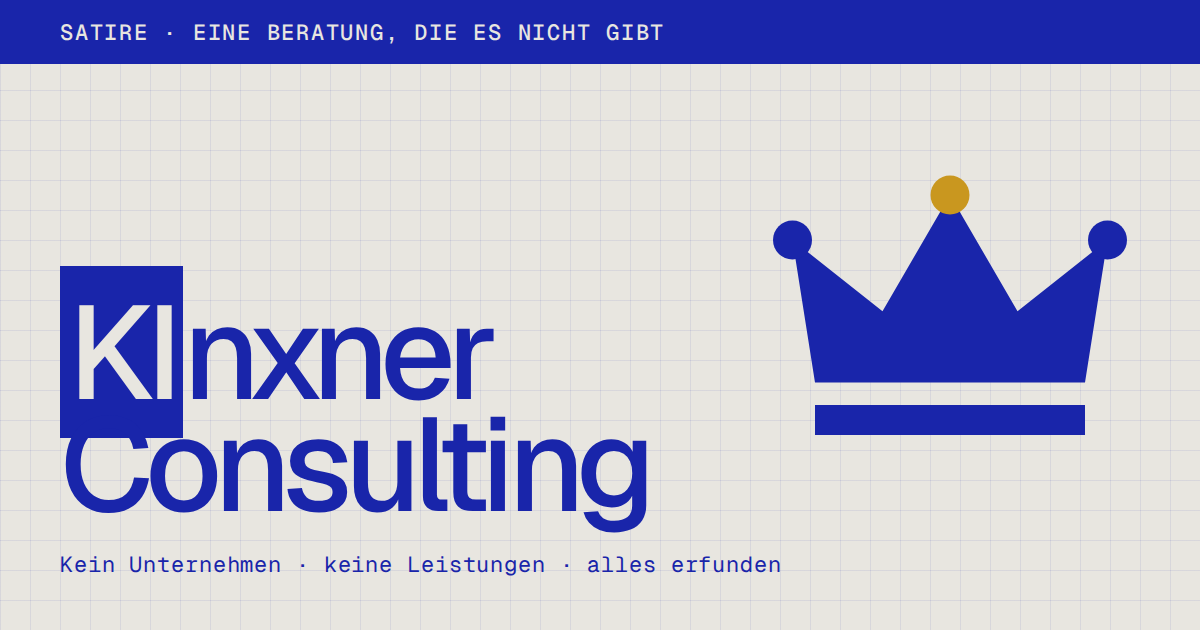
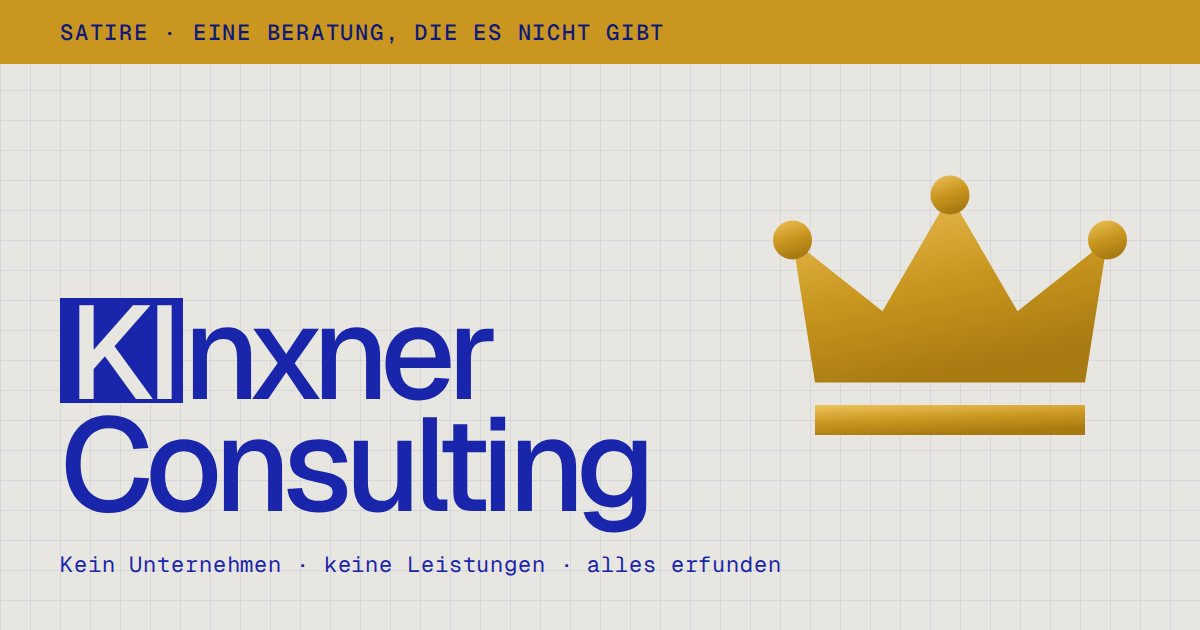
Gold zurück: Krone, Satire-Balken und Akzente wieder in Kronen-Gold
Nach Feedback bekommt KInxner sein Gold zurück, ohne das Duoton zu
verlieren. Die Krone ist überall wieder ganz golden (Metallverlauf),
die Blaupause im Hero wird nach dem Zeichnen vergoldet.

- Satire-Balken wieder gold, Text dunkelblau (5,5:1)
- Goldene Akzentlinie an jeder Sektion und über den Kennzahlen
- "Wörtlich." und die Kronen-Kennzahl in dunklem Gold (große Schrift, 3,5:1)
- Gold auf Blau: Manifest, Menü, Hover der Leistungen
- Hover-Zustände der Buttons werden vergoldet
- Folie 3: die Balken-Krone ist jetzt golden
- Footer: Krone sitzt auf dem KI
- Favicon: goldene Krone auf Blau; OG-Bild neu, KI-Kästchen korrigiert
- Manifest: goldene, korrekte deutsche Anführungszeichen
- Doku und README angepasst

Claude-Session: https://claude.ai/code/session_0131gEwVaujdm63ESBMfdYfs

diff --git a/assets/css/style.css b/assets/css/style.css
@@ -27,6 +27,8 @@
   --paper-2: #dfdcd4;
   --paper-3: #f1efea;
   --gold: #c9971f;
+  --gold-bright: #e8b84b; /* Gold auf Blau */
+  --gold-deep: #a07010;   /* Gold für große Schrift auf Papier (3,5:1) */
   --muted: color-mix(in srgb, var(--blue) 76%, var(--paper));
   --line: color-mix(in srgb, var(--blue) 24%, transparent);
   --line-soft: color-mix(in srgb, var(--blue) 9%, transparent);
@@ -146,10 +148,10 @@ p { margin: 0 0 1em; text-wrap: pretty; }
   -webkit-box-decoration-break: clone;
   box-decoration-break: clone;
 }
-.manifest .ki,
+.manifest .ki { background: var(--gold-bright); color: var(--blue-deep); }
 .menu .ki,
 .ticket .ki,
-.satire-bar .ki { background: var(--paper); color: var(--blue); }
+.satire-bar .ki { background: var(--blue-deep); color: var(--paper); }
 
 .skip-link {
   position: absolute;
@@ -171,6 +173,7 @@ p { margin: 0 0 1em; text-wrap: pretty; }
 .menu :focus-visible,
 .satire-bar :focus-visible,
 .btn--solid:focus-visible { outline-color: var(--gold); }
+.satire-bar :focus-visible { outline-color: var(--blue-deep); }
 
 ::selection { background: var(--blue); color: var(--paper); }
 
@@ -181,8 +184,8 @@ p { margin: 0 0 1em; text-wrap: pretty; }
 .satire-bar {
   position: relative;
   z-index: 200;
-  background: var(--blue);
-  color: var(--paper);
+  background: var(--gold);
+  color: var(--blue-deep);
   font-size: 0.875rem;
   line-height: 1.45;
 }
@@ -200,13 +203,13 @@ p { margin: 0 0 1em; text-wrap: pretty; }
   font-size: 0.75rem;
   letter-spacing: 0.08em;
   text-transform: uppercase;
-  background: var(--paper);
-  color: var(--blue);
+  background: var(--blue-deep);
+  color: var(--paper);
   padding: 0.1rem 0.4rem;
 }
 .satire-bar span { flex: 1 1 32rem; }
 .satire-bar a { white-space: nowrap; text-decoration: underline; }
-.satire-bar a:hover { color: #fff; }
+.satire-bar a:hover { text-decoration-thickness: 2px; }
 
 /* ==========================================================================
    Header
@@ -239,8 +242,7 @@ p { margin: 0 0 1em; text-wrap: pretty; }
   text-decoration: none;
   justify-self: start;
 }
-.crown { fill: var(--blue); }
-.crown .crown__jewel { fill: var(--gold); }
+.crown { fill: url(#crown-gold); }
 .brand__crown { width: 2rem; height: auto; flex: none; }
 .brand__word {
   font-size: 1.35rem;
@@ -277,7 +279,7 @@ p { margin: 0 0 1em; text-wrap: pretty; }
   background: transparent;
   transition: background 0.3s var(--ease), color 0.3s var(--ease);
 }
-.pill:hover { background: var(--blue); color: var(--paper); }
+.pill:hover { background: var(--gold); border-color: var(--gold); color: var(--blue-deep); }
 
 .menu-btn {
   display: inline-flex;
@@ -324,7 +326,8 @@ p { margin: 0 0 1em; text-wrap: pretty; }
 }
 .menu.is-open { transform: none; }
 .menu__inner { display: flex; flex-direction: column; min-height: 100%; }
-.menu__label span { opacity: 0.7; }
+.menu__label { color: var(--gold-bright); }
+.menu__label span { opacity: 0.85; }
 .menu__list {
   list-style: none;
   margin: 0 0 2.5rem;
@@ -344,8 +347,8 @@ p { margin: 0 0 1em; text-wrap: pretty; }
   text-decoration: none;
   transition: padding-left 0.5s var(--ease);
 }
-.menu__list a:hover { padding-left: 0.75rem; }
-.menu__no { font: 400 0.75rem/1 var(--mono); letter-spacing: 0.06em; opacity: 0.7; }
+.menu__list a:hover { padding-left: 0.75rem; color: var(--gold-bright); }
+.menu__no { font: 400 0.75rem/1 var(--mono); letter-spacing: 0.06em; color: var(--gold-bright); }
 .menu__foot { margin-top: auto; opacity: 0.85; text-transform: none; letter-spacing: 0.02em; }
 .menu.is-open ~ main,
 .menu.is-open ~ .site-footer { pointer-events: none; }
@@ -354,7 +357,7 @@ body.menu-open .site-header { background: transparent; border-color: transparent
 body.menu-open .site-header .brand,
 body.menu-open .header-index,
 body.menu-open .pill { opacity: 0; pointer-events: none; }
-body.menu-open .menu-btn { background: var(--paper); color: var(--blue); border-color: var(--paper); }
+body.menu-open .menu-btn { background: var(--gold); color: var(--blue-deep); border-color: var(--gold); }
 .brand, .header-index, .pill { transition: opacity 0.3s; }
 
 /* ==========================================================================
@@ -373,7 +376,7 @@ body.menu-open .menu-btn { background: var(--paper); color: var(--blue); border-
   transition: background 0.35s var(--ease), color 0.35s var(--ease);
 }
 .btn--solid { background: var(--blue); color: var(--paper); }
-.btn--solid:hover { background: var(--blue-deep); }
+.btn--solid:hover { background: var(--gold); border-color: var(--gold); color: var(--blue-deep); }
 .btn--solid span { transition: transform 0.4s var(--ease); }
 .btn--solid:hover span { transform: translateX(4px); }
 .btn--line { color: var(--blue); }
@@ -445,6 +448,7 @@ body.menu-open .menu-btn { background: var(--paper); color: var(--blue); border-
 .hero__title .line:nth-child(2) { padding-left: clamp(0rem, 16.6vw, 16rem); }
 .hero__title .line:nth-child(3) { padding-left: clamp(0rem, 33vw, 32rem); }
 .hero__title .ki { padding: 0 0.06em; border-radius: 0.04em; }
+.hero__title .gold { color: var(--gold-deep); }
 
 .hero__grid {
   display: grid;
@@ -467,8 +471,7 @@ body.menu-open .menu-btn { background: var(--paper); color: var(--blue); border-
 
 .bp-grid path { stroke: var(--line-soft); stroke-width: 1; fill: none; }
 .bp-construct * { fill: none; stroke: var(--line); stroke-width: 1; stroke-dasharray: 0.012 0.012; }
-.bp-crown * { fill: color-mix(in srgb, var(--blue) 7%, transparent); stroke: var(--blue); stroke-width: 2.5; stroke-linejoin: round; }
-.bp-crown .bp-jewel { fill: var(--gold); stroke: var(--blue); }
+.bp-crown * { fill: url(#crown-gold); stroke: var(--blue); stroke-width: 2.5; stroke-linejoin: round; }
 .bp-dims path { fill: none; stroke: var(--blue); stroke-width: 1.25; }
 .bp-labels text,
 .bp-titleblock text {
@@ -502,7 +505,9 @@ body.menu-open .menu-btn { background: var(--paper); color: var(--blue); border-
   grid-template-columns: repeat(4, 1fr);
   margin: clamp(3rem, 6vw, 5rem) 0 0;
   border-top: 1px solid var(--blue);
+  position: relative;
 }
+.stat:last-child dd { color: var(--gold-deep); }
 .stat {
   display: flex;
   flex-direction: column;
@@ -544,6 +549,17 @@ body.menu-open .menu-btn { background: var(--paper); color: var(--blue); border-
   padding-top: 1rem;
   border-top: 1px solid var(--blue);
   margin-bottom: clamp(2.5rem, 6vw, 5rem);
+  position: relative;
+}
+.section-head::before,
+.stats::before {
+  content: "";
+  position: absolute;
+  top: -2px;
+  left: 0;
+  width: clamp(3rem, 9vw, 8rem);
+  height: 3px;
+  background: var(--gold);
 }
 .section-head .label { grid-column: 1 / -1; }
 .section-head h2 { grid-column: 1 / span 8; }
@@ -577,7 +593,9 @@ p.section-head__aside:not(.label) { font-size: 1.05rem; }
 @media (hover: hover) {
   .service:hover { color: var(--paper); }
   .service:hover::before { transform: scaleY(1); }
-  .service:hover .ki { background: var(--paper); color: var(--blue); }
+  .service:hover .ki { background: var(--gold-bright); color: var(--blue-deep); }
+  .service:hover .service__no,
+  .service:hover .service__tags { color: var(--gold-bright); }
 }
 .service__no { grid-column: 1 / span 1; font: 400 0.75rem/1 var(--mono); letter-spacing: 0.06em; }
 .service__title { grid-column: 2 / span 5; font-size: clamp(1.5rem, 2.6vw, 2.3rem); letter-spacing: -0.035em; line-height: 1.05; }
@@ -638,8 +656,7 @@ p.section-head__aside:not(.label) { font-size: 1.05rem; }
 .slide__list { margin: auto 0; padding-left: 1.2em; font-size: clamp(0.9rem, 1.8vw, 1.5rem); letter-spacing: -0.02em; line-height: 1.35; }
 .slide__list li::marker { content: "▪  "; }
 .slide__chart { width: 70%; margin: auto auto 0; }
-.slide__chart rect { fill: var(--blue); }
-.slide__chart .chart-peak { fill: var(--blue-deep); }
+.slide__chart rect { fill: url(#crown-gold); }
 .chart-axis { stroke: var(--blue); stroke-width: 1.5; }
 .slide__note { font: 400 clamp(0.55rem, 1vw, 0.7rem)/1.3 var(--mono); margin: 0.5rem 0 0; text-align: center; }
 
@@ -689,7 +706,7 @@ p.section-head__aside:not(.label) { font-size: 1.05rem; }
   cursor: pointer;
   transition: background 0.3s, color 0.3s;
 }
-.deck__btn:hover { background: var(--blue); color: var(--paper); }
+.deck__btn:hover { background: var(--gold); border-color: var(--gold); color: var(--blue-deep); }
 .deck__hint { margin: 0 0 0 0.75rem; text-transform: none; letter-spacing: 0.02em; }
 
 /* Vorgehen */
@@ -717,7 +734,7 @@ p.section-head__aside:not(.label) { font-size: 1.05rem; }
   left: 0;
   width: 9px;
   height: 9px;
-  background: var(--paper);
+  background: var(--gold);
   border: 1.5px solid var(--blue);
   border-radius: 50%;
 }
@@ -753,6 +770,7 @@ p.section-head__aside:not(.label) { font-size: 1.05rem; }
   pointer-events: none;
 }
 .manifest__inner { position: relative; z-index: 1; }
+.manifest .label { color: var(--gold-bright); }
 .manifest blockquote { margin: 0; }
 .manifest blockquote p {
   font-size: clamp(2.4rem, 7.4vw, 7.4rem);
@@ -761,8 +779,9 @@ p.section-head__aside:not(.label) { font-size: 1.05rem; }
   line-height: 0.95;
   max-width: 15ch;
   margin: 0 0 3rem;
-  text-indent: -0.4em;
+  text-indent: -0.36em;
 }
+.manifest blockquote .q { color: var(--gold-bright); }
 .manifest__note { max-width: 44ch; margin-left: auto; font-size: 1.1rem; }
 
 /* Cases */
@@ -843,6 +862,7 @@ p.section-head__aside:not(.label) { font-size: 1.05rem; }
 .faq summary::-webkit-details-marker { display: none; }
 .faq summary::after {
   content: "+";
+  color: var(--gold-deep);
   font-weight: 300;
   font-size: 1.6em;
   line-height: 1;
@@ -887,7 +907,7 @@ p.section-head__aside:not(.label) { font-size: 1.05rem; }
   text-transform: uppercase;
   margin: 0;
 }
-.ticket__crown { width: 4.5rem; margin: 2.5rem 0 1.25rem; fill: var(--paper); }
+.ticket__crown { width: 4.5rem; margin: 2.5rem 0 1.25rem; }
 .ticket__title { font-size: 2rem; font-weight: 500; letter-spacing: -0.04em; margin: 0 0 0.4rem; }
 .ticket__line { font: 400 0.8rem/1.5 var(--mono); margin: 0 0 2.5rem; padding-bottom: 1.5rem; border-bottom: 1px dashed color-mix(in srgb, var(--paper) 45%, transparent); align-self: stretch; }
 
@@ -907,6 +927,15 @@ p.section-head__aside:not(.label) { font-size: 1.05rem; }
   line-height: 0.8;
   margin: 0 0 clamp(1.5rem, 3vw, 2.5rem) -0.05em;
   white-space: nowrap;
+  position: relative;
+  padding-top: 0.24em;
+}
+.footer-crown {
+  position: absolute;
+  top: 0.02em;
+  left: 0.03em;
+  width: 0.3em;
+  rotate: -10deg;
 }
 .footer-mark .ki { display: inline-block; line-height: 0.74; padding: 0.03em 0.04em 0.01em; border-radius: 0.02em; }
 .footer-row {
@@ -943,15 +972,14 @@ p.section-head__aside:not(.label) { font-size: 1.05rem; }
   transition: transform 0.85s var(--ease-in-out);
 }
 .intro__crown * {
-  fill: var(--blue);
+  fill: url(#crown-gold);
   fill-opacity: 0;
-  stroke: var(--blue);
+  stroke: var(--gold-deep);
   stroke-width: 0.6;
   stroke-dasharray: 1;
   stroke-dashoffset: 1;
   animation: intro-draw 0.7s var(--ease-in-out) forwards, intro-fill 0.25s 0.6s forwards;
 }
-.intro__crown .crown__jewel { fill: var(--gold); }
 .intro__label {
   position: absolute;
   left: 50%;

diff --git a/index.html b/index.html
@@ -80,6 +80,11 @@
   <!-- Die Krone, einmal definiert. Konstruktion: docs/redesign/crown.md -->
   <svg width="0" height="0" class="sr-only" aria-hidden="true" focusable="false">
     <defs>
+      <linearGradient id="crown-gold" x1="0" y1="0" x2="0.35" y2="1">
+        <stop offset="0" stop-color="#EDC25C" />
+        <stop offset="0.55" stop-color="#C9971F" />
+        <stop offset="1" stop-color="#A87A12" />
+      </linearGradient>
       <g id="crown-mark">
         <path d="M6 31 3 12l12 9.5L24 6l9 15.5L45 12l-3 19Z" />
         <circle cx="3" cy="12" r="2.6" />
@@ -106,7 +111,7 @@
         <h1 id="hero-title" class="hero__title">
           <span class="line"><span>Wir schreiben</span></span>
           <span class="line"><span><span class="ki">KI</span> groß.</span></span>
-          <span class="line"><span>Wörtlich.</span></span>
+          <span class="line"><span class="gold">Wörtlich.</span></span>
         </h1>
 
         <div class="hero__grid">
@@ -153,8 +158,8 @@
               <g class="bp-labels">
                 <text x="300" y="522" text-anchor="middle">Breite: skaliert mit dem Tagessatz (0 €)</text>
                 <text x="596" y="247" transform="rotate(90 596 247)" text-anchor="middle">Zackenhöhe: nicht verhandelbar</text>
-                <text x="184" y="46" text-anchor="end">Juwel: Gold.</text>
-                <text x="184" y="64" text-anchor="end" class="bp-minor">Einziger Farbakzent.</text>
+                <text x="184" y="46" text-anchor="end">Material: Blattgold.</text>
+                <text x="184" y="64" text-anchor="end" class="bp-minor">Aus Prinzip.</text>
                 <text x="12" y="444">Fundament:</text>
                 <text x="12" y="462">Data Engineering</text>
                 <text x="12" y="318" class="bp-minor">∠ 38°,</text>
@@ -345,7 +350,7 @@
       <div class="wrap manifest__inner">
         <p class="label reveal">§ 05 — Das <span class="ki">KI</span>-Manifest, §1</p>
         <blockquote class="reveal">
-          <p id="manifest-title">„Ein Modell ohne saubere Daten ist eine Meinung mit GPU."</p>
+          <p id="manifest-title"><span class="q">„</span>Ein Modell ohne saubere Daten ist eine Meinung mit GPU.<span class="q">“</span></p>
         </blockquote>
         <p class="manifest__note reveal">Deshalb beginnt bei uns jedes <span class="ki">KI</span>-Projekt im Data Engineering — und endet erst, wenn es im Betrieb läuft. Das Manifest hat nur einen Paragrafen. Mehr passte nicht auf die Folie.</p>
       </div>
@@ -440,7 +445,7 @@
 
   <footer class="site-footer">
     <div class="wrap">
-      <p class="footer-mark" aria-hidden="true"><span class="ki">KI</span>nxner</p>
+      <p class="footer-mark" aria-hidden="true"><svg class="crown footer-crown" viewBox="0 0 48 40" focusable="false"><use href="#crown-mark" /></svg><span class="ki">KI</span>nxner</p>
       <div class="footer-row">
         <p>&copy; <span id="year">2026</span> <span class="ki">KI</span>nxner Consulting — ein Satireprojekt. Kein Unternehmen, keine Leistungen, keine echten Projekte.</p>
         <p class="footer-egg">Und ja: Wir können auch PowerPoint. Nur eben nicht für Geld.</p>

diff --git a/datenschutz.html b/datenschutz.html
@@ -54,6 +54,13 @@
     <div class="wrap header-inner">
       <a href="index.html" class="brand" aria-label="KInxner Consulting – Startseite">
         <svg class="crown brand__crown" viewBox="0 0 48 40" aria-hidden="true" focusable="false">
+          <defs>
+      <linearGradient id="crown-gold" x1="0" y1="0" x2="0.35" y2="1">
+        <stop offset="0" stop-color="#EDC25C" />
+        <stop offset="0.55" stop-color="#C9971F" />
+        <stop offset="1" stop-color="#A87A12" />
+      </linearGradient>
+          </defs>
           <path d="M6 31 3 12l12 9.5L24 6l9 15.5L45 12l-3 19Z" />
           <circle cx="3" cy="12" r="2.6" />
           <circle cx="45" cy="12" r="2.6" />

diff --git a/docs/redesign/decisions.md b/docs/redesign/decisions.md
@@ -18,7 +18,7 @@ Grundlage: `prompts/redesign.md`. Hier steht kurz, was entschieden wurde und war
 | Thema | Entscheidung | Warum |
 |---|---|---|
 | Farbe | Ultramarin `#1925AA` auf Porzellan `#E8E6E0`, Abstufung `#DFDCD4` für Wechselsektionen | Duoton der Referenz; Ultramarin war schon das „KI"-Signal |
-| Gold | Nur noch das Juwel der Krone (`#C9971F`) | Ein Akzent, der auffällt, weil er allein ist |
+| Gold | Die Krone ist wieder ganz golden (Verlauf `#EDC25C` → `#C9971F` → `#A87A12`). Dazu kommen der Satire-Balken, eine Akzentlinie an jeder Sektion, „Wörtlich.", Gold auf Blau (Manifest, Menü, Hover) und vergoldete Hover-Zustände | Nach Feedback: Das Gold hat KInxner ausgemacht. Auf Papier steht Gold nur als Fläche, Linie oder große Schrift (`#A07010`, 3,5:1). Kleine Schrift auf Papier bleibt blau |
 | KI-Signatur | „KI" als invertiertes Kästchen im Wort | In einem Duoton trägt Farbe allein nicht mehr; das Kästchen funktioniert auf Papier und auf Blau |
 | Schrift | Geist + Geist Mono (SIL OFL), selbst gehostet | Die Schriften der Referenz sind unbekannt. Gesucht war eine sachliche Grotesk mit Mono-Schwester für die Bemaßung. Selbst gehostet heißt: keine Verbindung zu Google |
 | Raster | 12 Spalten, als Haarlinien sichtbar; Hero als Millimeterpapier | Die Seite als Bauplan einer Beratung |

diff --git a/README.md b/README.md
@@ -6,7 +6,7 @@ Gehostet auf GitHub Pages unter [kinxner-consulting.de](https://kinxner-consulti
 
 ## Design-System
 
-Die Seite ist als Blaupause einer Beratung gestaltet: Duoton, sichtbares Raster, bemaßte Krone.
+Die Seite ist als Blaupause einer Beratung gestaltet: Ultramarin auf Papier, Gold für die Krone und ihre Akzente, sichtbares Raster, bemaßte Krone.
 Hintergründe und Entscheidungen stehen in `docs/redesign/`.
 
 | Token | Wert | Rolle |
@@ -14,7 +14,9 @@ Hintergründe und Entscheidungen stehen in `docs/redesign/`.
 | `--blue` Ultramarin | `#1925AA` | Text, Linien, Flächen — die eine Farbe |
 | `--paper` Porzellan | `#E8E6E0` | Grundfläche |
 | `--paper-2` | `#DFDCD4` | Wechselsektionen (PowerPoint, Was soll das?) |
-| `--gold` Kronen-Gold | `#C9971F` | ausschließlich das mittlere Juwel der Krone |
+| `--gold` Kronen-Gold | `#C9971F` | Krone, Satire-Balken, Akzentlinien, vergoldete Hover-Zustände |
+| `--gold-bright` | `#E8B84B` | Gold auf blauen Flächen (Manifest, Menü) |
+| `--gold-deep` | `#A07010` | Gold für große Schrift auf Papier („Wörtlich.") |
 
 - **KI-Signatur:** „KI" steht im Wort als invertiertes Kästchen (`<span class="ki">KI</span>`)
 - **Typografie:** Geist (Display und Text) und Geist Mono (Beschriftung, Bemaßung), beide selbst gehostet (SIL OFL, `assets/fonts/`)

diff --git a/docs/redesign/crown.md b/docs/redesign/crown.md
@@ -10,7 +10,7 @@ Raster 48 × 40 Einheiten.
 |---|---|
 | Körper | Polygon `(6,31) (3,12) (15,21.5) (24,6) (33,21.5) (45,12) (42,31)` |
 | Zacken | drei Spitzen: außen auf y = 12, Mitte auf y = 6; die Täler liegen auf y = 21.5 |
-| Juwelen | Kreise r = 2.6 auf den drei Spitzen; das mittlere ist gold, die äußeren blau |
+| Juwelen | Kreise r = 2.6 auf den drei Spitzen |
 | Fundament | Rechteck `x 6, y 34, 36 × 4`, getrennt durch eine Fuge von 3 Einheiten |
 
 Die Blaupause im Hero ist dieselbe Geometrie im Maßstab 10:1 (Versatz 60/40). Ihre Bemaßung ist satirisch: „Zackenhöhe: nicht verhandelbar", „Breite: skaliert mit dem Tagessatz (0 €)", „Fundament: Data Engineering".
@@ -23,4 +23,4 @@ Die Blaupause im Hero ist dieselbe Geometrie im Maßstab 10:1 (Versatz 60/40). I
 
 ## Farbe
 
-Blau auf Papier. Gold nur für das mittlere Juwel, sonst nirgends auf der Seite. Auf blauem Grund (Ticket, Menü) ist die Krone papierfarben, das Juwel bleibt gold.
+Ganz in Gold, mit einem leichten Metallverlauf (`#EDC25C` → `#C9971F` → `#A87A12`, Gradient `#crown-gold`). Die Blaupause im Hero zeichnet sich in blauen Linien und wird danach vergoldet. Das Favicon zeigt die goldene Krone auf einem blauen Quadrat.
